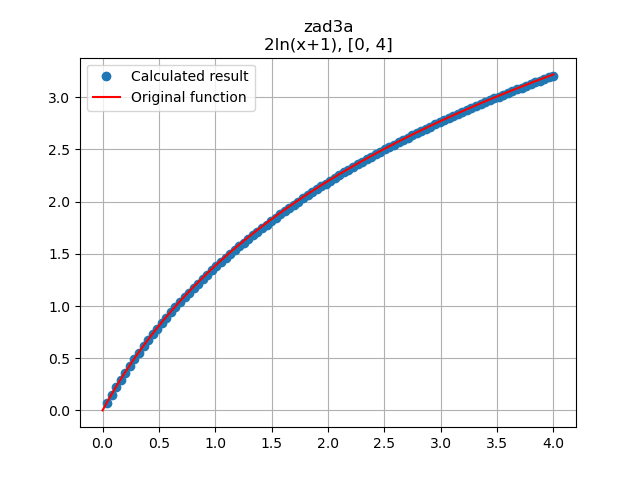
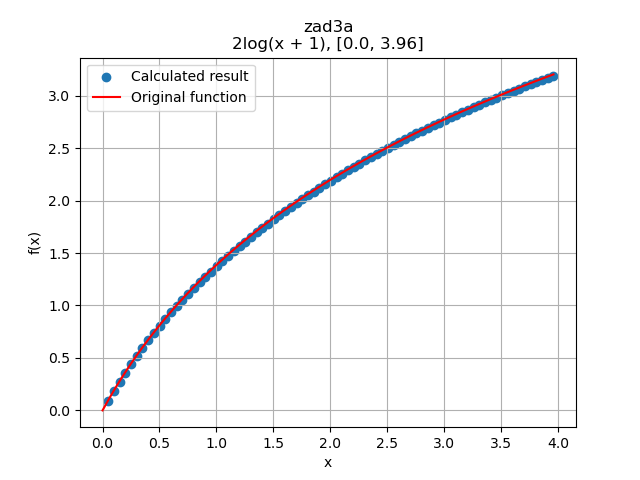
3d charts ++

diff --git a/plot_chart.py b/plot_chart.py
@@ -17,8 +17,11 @@ def plot_chart(zadname: str):
     dims_by_func = func_lines[0].count(",") + 1
     formula = func_lines[1] \
         .partition('return ')[2] \
+        .replace(" ** ", "^") \
         .replace("**", "^") \
-        .replace("*", "")
+        .replace(" * ", "") \
+        .replace("*", "") \
+        .replace("np.", "")
 
     with open(f"{SOLUTION_DIR}/{zadname}.dat") as f:
         lines = f.readlines()
@@ -39,9 +42,11 @@ def plot_chart(zadname: str):
     FUNC_STR = formula
     variables = []
     for _ in range(dims):
-        variables.append(np.linspace(FROM, TO, 40))
+        variables.append(np.linspace(FROM, TO, 80))
     X1 = variables[0]
-    X2 = variables[1]
+    if dims > 1:
+        X2 = variables[1]
+        X1, X2 = np.meshgrid(X1, X2)
     FUNC = original_func(*variables)
     TITLE = TASK + "\n" + f"{FUNC_STR}, [{FROM}, {TO}]"
     RESULT = eval(best_solution)
@@ -57,12 +62,14 @@ def plot_chart(zadname: str):
         plt.savefig(f"{CHART_DIR}/{TASK}.png")
 
     def plot_two_dims():
+        z_result = eval(best_solution)
+        z_original = original_func(X1, X2)
         fig = plt.figure()
         fig.set_size_inches(12, 5)
         ax1 = fig.add_subplot(1, 2, 1, projection='3d')
         ax2 = fig.add_subplot(1, 2, 2, projection='3d')
-        ax1.plot_surface(X1, X2, RESULT)
-        ax2.plot_surface(X1, X2, FUNC, color='red')
+        ax1.plot_surface(X1, X2, z_result)
+        ax2.plot_surface(X1, X2, z_original, color='red')
         ax1.set_xlabel('x')
         ax2.set_xlabel('x')
         ax1.set_ylabel('y')

diff --git a/plot_data_zad3c.py b/plot_data_zad3c.py
@@ -1,0 +1,34 @@
+import matplotlib.pyplot as plt
+
+TASK = "zad" + "3c"
+N_GEN = 20
+FROM = 0
+TO = 99
+FUNC_STR = "2 * log(x + 1)"
+TITLE = TASK + "\n" + f"{FUNC_STR}, [{FROM}, {TO}]"
+X1 = range(0, N_GEN + 1)
+AVG_FIT = [
+    169288480, 58399.484, 373.9315, 225.90172, 336.1946, 487.4094, 672.213, 817.6449, 983.4962, 1474.6869, 1284.9833, 1056.0743, 4366.7524, 3472.1794, 985302, 538517.7, 31802296, 64761.82, 28542.992, 5261.5913, 234639.3]
+BEST_FIT = [27.11501, 27.11501, 22.282707, 22.282707, 13.023741, 13.023741, 12.923175, 11.909382, 11.3887005, 10.872756,
+            9.485519, 9.485519, 8.603031, 8.603031, 7.4422603, 7.4422603, 7.4386744, 6.120191, 6.120191, 5.8710423, 5.162098]
+
+
+def main():
+    fig, (ax1, ax2) = plt.subplots(1, 2)
+    fig.set_size_inches(12, 5)
+    ax1.set_title(TITLE)
+    ax2.set_title(TITLE)
+    ax1.scatter(X1, AVG_FIT)
+    ax2.scatter(X1, BEST_FIT)
+    ax1.grid(), ax2.grid()
+    ax1.set_xticks(range(21))
+    ax2.set_xticks(range(21))
+    ax1.set_xlabel('Number of Generation')
+    ax2.set_xlabel('Number of Generation')
+    ax1.set_ylabel("Average Fitness")
+    ax2.set_ylabel("Best Fitness")
+    plt.savefig(f"charts/{TASK}-data.png")
+
+
+if __name__ == "__main__":
+    main()

diff --git a/make_problem.py b/make_problem.py
@@ -1,4 +1,5 @@
 import math
+import numpy as np
 
 # I didn't test this generic one
 
@@ -57,17 +58,19 @@ def zad1(x):
         return 5 * x**3 - 2 * x**2 + 3 * x - 17
 
 def zad2(x):
-        return math.sin(x) + math.cos(x)
+        return np.sin(x) + np.cos(x)
 
 def zad3(x):
-        return 2 * math.log(x + 1)
+        return 2 * np.log(x + 1)
 
 def zad4(x, y):
         return x + 2 * y
 
 def zad5(x, y):
-        # return math.sin(x/2) + 2 * math.cos(x) # chyba na upelu jest zadanie zapisane z bledem
-        return math.sin(x/2) + 2 * math.cos(y) # zakladam ze mialo byc cos(y)
+        return np.sin(x/2) + 2 * np.cos(y)
+        # zakladam ze mialo byc cos(y)
+        # return n.spin(x/2) + 2 * n.cos(x)
+        # chyba na upelu jest zadanie zapisane z bledem
 
 def zad6(x, y):
         return x**2 + 3*x*y - 7*y + 1
